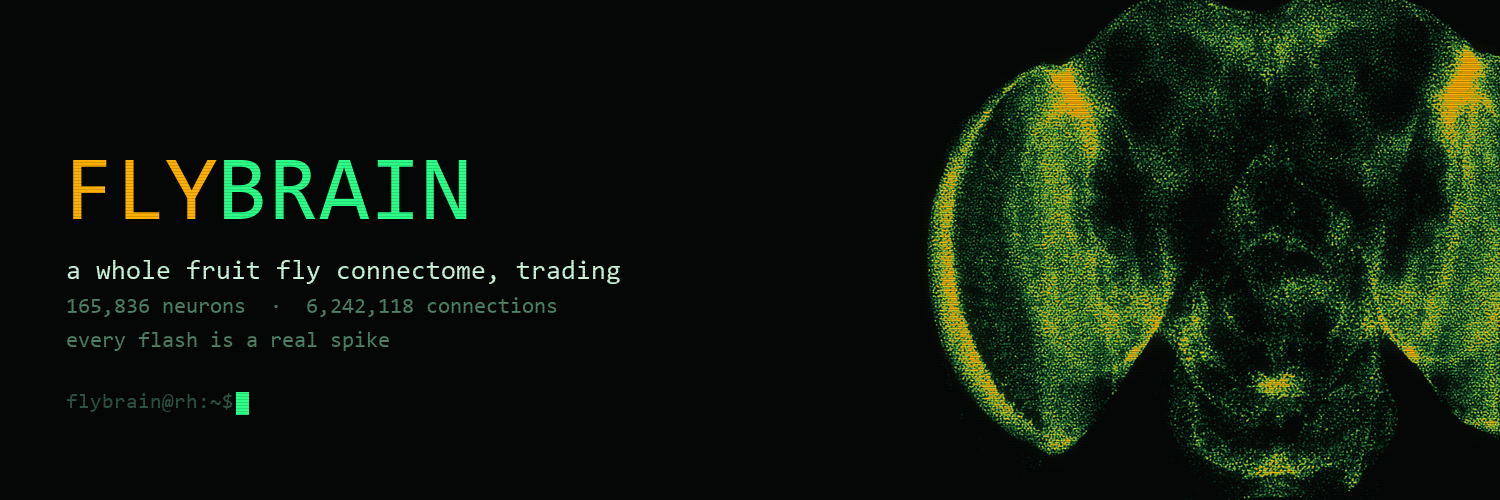
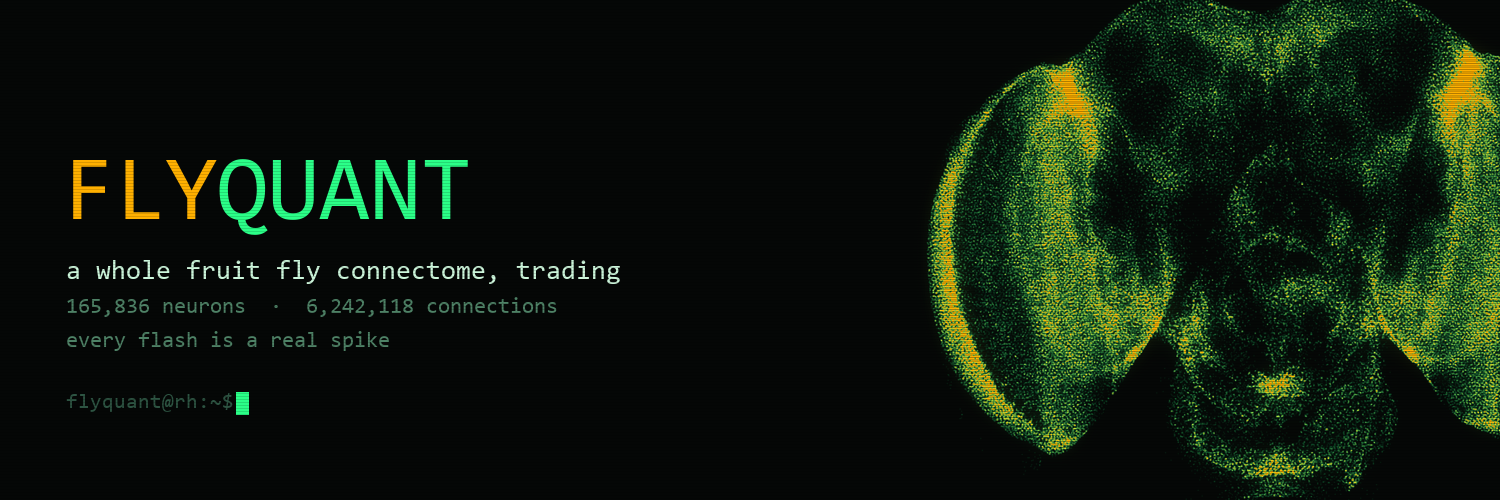
FLYQUANT, live trades only, and the markets ringed around the animal
Rebranded: the site, the boot line, the prompt and the banner all read FLYQUANT.
The ticker is still FLY -- launch.symbol is IMMUTABLE once launched, so change it
before the launch call if $FLYQUANT is wanted instead.

The backtest is gone from the page. Live fills only, one table, no modes. A
backtest sitting next to real fills invites reading one as the other however it is
labelled, and the P&L headline now reads the account's own unrealised or says it
has no account. backtest/ stays in the repo as a research tool; it just does not
speak to visitors.

And the markets orbit the brain. Every ticker sits at the azimuth the fly actually
seats it at, the ring turns with the fly's heading, the one it is facing burns amber
and anything falling goes red -- so the hero and the arena panel are showing the
same fact rather than two decorations.

Two bugs on the way. The animation loop starts immediately and touched `orbit` on
its first frame, before a `let` further down the file existed, which blanked the
whole page. And the overlay was inset:0 inside the stage, which spans the panels
underneath too, so fifty-seven tickers landed on top of the tape.

Deploy fixed as well: the function moved to /api at the repo root where Vercel
looks for it, and .vercelignore now exists -- without it Vercel falls back to
.gitignore and would have dropped site/stats.json and site/activity.bin, the two
files the page needs to render anything at all.

Changed region(s): [[0.2453, 0.3, 0.3373, 0.45], [0.1227, 0.3, 0.2147, 0.48], [0.092, 0.78, 0.1227, 0.81]]

diff --git a/site/index.html b/site/index.html
@@ -7,8 +7,8 @@
 <meta property="og:image" content="/banner.png">
 <meta name="twitter:card" content="summary_large_image">
 <meta name="twitter:image" content="/banner.png">
-<title>FLYBRAIN — a whole fly brain, trading</title>
-<meta name="description" content="165,836 neurons of a real fruit fly, in a flight arena with 57 live perp markets. Every dot is a cell body. Every flash is a spike.">
+<title>FLYQUANT — a whole fly brain, trading</title>
+<meta name="description" content="FLYQUANT · 165,836 neurons of a real fruit fly, in a flight arena with 57 live perp markets. Every dot is a cell body. Every flash is a spike.">
 <style>
   :root {
     --bg:#050706; --panel:#080b09; --line:#14261c; --ink:#c8f5d8; --dim:#4e8266; --faint:#2d5442;
@@ -60,6 +60,19 @@
   #cloud{display:block;width:100%;height:56vh;min-height:340px;cursor:crosshair;background:
     radial-gradient(ellipse at 50% 45%, #071310 0%, #050706 70%)}
   #cloud:active{cursor:grabbing}
+  /* the arena, made literal: every market sits at its own seat around the animal and the whole
+     ring turns with the fly's heading, so what the page shows IS what the fly is facing */
+  .orbit{position:absolute;left:0;right:0;top:0;height:56vh;min-height:340px;
+    pointer-events:none;overflow:hidden;z-index:3}
+  .orbit i{position:absolute;font-style:normal;font-size:10px;letter-spacing:.06em;
+    transform:translate(-50%,-50%);white-space:nowrap;color:var(--faint);
+    transition:color .5s ease,opacity .5s ease}
+  .orbit i.on{color:var(--grn);text-shadow:var(--glow)}
+  .orbit i.loom{color:var(--loom);text-shadow:0 0 7px rgba(255,77,77,.5)}
+  .orbit i.pick{color:var(--hot);font-weight:700;font-size:12px;
+    text-shadow:0 0 10px rgba(255,176,0,.65)}
+  .orbit b{position:absolute;left:50%;top:50%;width:1px;height:1px}
+
   .over{position:absolute;pointer-events:none;font-size:11.5px;color:var(--dim);letter-spacing:.04em}
   .over.tl{top:12px;left:16px} .over.bl{bottom:12px;left:16px} .over.br{bottom:12px;right:16px}
   .over b{color:var(--ink);font-weight:500}
@@ -74,7 +87,7 @@
 
   /* a terminal prompt, used wherever the page is speaking */
   .prompt{color:var(--grn);text-shadow:var(--glow)}
-  .prompt::before{content:'flybrain@rh:~$ ';color:var(--faint)}
+  .prompt::before{content:'flyquant@rh:~$ ';color:var(--faint)}
   .cursor{display:inline-block;width:7px;height:13px;background:var(--grn);vertical-align:-2px;
     box-shadow:var(--glow);animation:bl 1.05s steps(2) infinite}
   @keyframes bl{0%,50%{opacity:1}51%,100%{opacity:0}}
@@ -245,7 +258,7 @@
 <div id="boot"></div>
 
 <div class="top">
-  <div class="brand"><i>FLY</i>BRAIN</div>
+  <div class="brand"><i>FLY</i>QUANT</div>
   <div class="tag"><b>one whole fly brain</b>, trading 57 perp markets on Robinhood Chain ·
     it turns toward a market and its motor neurons decide</div>
   <div class="live" id="live"><span class="d"></span><span id="liveText">connecting</span></div>
@@ -254,6 +267,7 @@
 <div class="layout">
   <div class="stage">
     <canvas id="cloud"></canvas>
+    <div class="orbit" id="orbit"></div>
     <div class="over tl" id="ovTL"></div>
     <div class="over bl" id="ovBL"></div>
     <div class="over br">drag to rotate · scroll to zoom</div>
@@ -278,11 +292,6 @@
     <section class="tape-wrap">
       <div class="tape-head">
         <h3 style="margin:0">The tape</h3>
-        <div class="seg" id="tapeMode">
-          <button data-mode="all" class="on">all</button>
-          <button data-mode="live">live</button>
-          <button data-mode="backtest">backtest</button>
-        </div>
         <div class="tape-sum" id="tapeSum"></div>
       </div>
       <div class="tape-scroll"><table class="tp" id="feed"><tbody></tbody></table></div>
@@ -341,6 +350,9 @@
 const $ = (s) => document.querySelector(s);
 const fmt = (n) => n == null ? '—' : Math.round(n).toLocaleString();
 const pct = (x) => (x * 100).toFixed(x >= 0.1 ? 0 : 1) + '%';
+// declared up here with the rest of the state, not beside its functions: the animation loop starts
+// immediately and touches it on the first frame, which is before a `let` further down exists
+let orbit = { labels: [], chosen: null, heading: 0, bands: 72, front: 36 };
 const POPS = { LC4:'#38bdf8', LPLC2:'#ff4d4d', MN9:'#2bff88', MDN:'#ffb000', DNp09:'#4e8266', DNa02:'#c08bff' };
 
 /* ═══ the brain, in three dimensions ═══════════════════════════════════════════════
@@ -449,6 +461,7 @@ function frame() {
     // replay the pass on a loop, with a beat of darkness so each replay reads as a new pass
     view.tBin = (view.tBin + 0.11) % (bins + 9);
     GL.draw(view);
+    placeOrbit();
   }
   requestAnimationFrame(frame);
 }
@@ -533,6 +546,7 @@ function render(s) {
       <div class="hz">${r.hz.toFixed(0)} Hz</div></div>`;
   }).join('');
 
+  buildOrbit(s);
   renderBook(s);
   renderFeed(s);
   renderPnl(s);
@@ -644,64 +658,30 @@ function renderBook(s) {
    this page could do.                                                                   */
 function renderPnl(s) {
   const acct = s.account || {};
-  const liveKnown = !acct.error && Number.isFinite(acct.equity);
-  const useLive = tapeMode === 'live' || (tapeMode === 'all' && liveKnown);
-
-  let pnl, pct, label, sub, curve = null, stats = [];
-
-  // ASKED FOR LIVE AND THERE IS NO LIVE: say so. The first version fell through to the backtest
-  // here, which put a +4.60% backtest figure under a tab labelled "live" — precisely the blend this
-  // function exists to prevent, and it took a toggle test to catch.
-  if (tapeMode === 'live' && !liveKnown) {
+  if (acct.error || !Number.isFinite(acct.equity)) {
     $('#pnlNum').className = 'pnl-num flat';
     $('#pnlNum').textContent = '—';
-    $('#pnlLabel').textContent = 'live · no account';
-    $('#pnlSub').innerHTML = acct.error
-      ? String(acct.error)
-      : 'nothing has traded live yet';
+    $('#pnlLabel').textContent = 'no account';
+    $('#pnlSub').innerHTML = acct.error ? String(acct.error) : 'nothing has traded yet';
     $('#pnlStats').innerHTML = '';
     drawCurve(null);
     return;
   }
-
-  if (useLive && liveKnown) {
-    pnl = Number(acct.unrealized) || 0;
-    pct = acct.equity ? (pnl / acct.equity) * 100 : 0;
-    label = 'live · unrealised';
-    sub = `on <b>${usd(acct.equity)}</b> of equity · ${acct.positions.length} open`;
-    stats = [
-      ['equity', usd(acct.equity)],
-      ['exposure', usd(acct.exposure)],
-      ['positions', String(acct.positions.length)],
-    ];
-  } else if (backtest) {
-    pnl = backtest.pnl;
-    pct = backtest.pnlPct;
-    label = 'backtest · ' + backtest.hours + ' hours';
-    sub = `<b>${usd(backtest.startEquity)}</b> → <b>${usd(backtest.finalEquity)}</b> · not live, not an edge`;
-    curve = backtest.equityCurve;
-    stats = [
-      ['decisions', String(backtest.decisions)],
-      ['fill rate', (backtest.fillRate * 100).toFixed(0) + '%'],
-      ['spread paid', usd(backtest.spreadPaid)],
-      ['execution cost', (backtest.spreadPaid / backtest.startEquity * 100).toFixed(3) + '%'],
-    ];
-  } else {
-    $('#pnlNum').textContent = '—';
-    $('#pnlLabel').textContent = 'no account yet';
-    $('#pnlSub').innerHTML = 'set <b>lighter.accountIndex</b> in keeper/config.json';
-    return;
-  }
-
+  const pnl = Number(acct.unrealized) || 0;
+  const pct = acct.equity ? (pnl / acct.equity) * 100 : 0;
   const dir = pnl > 0 ? 'up' : pnl < 0 ? 'dn' : 'flat';
   $('#pnlNum').className = 'pnl-num ' + dir;
   $('#pnlNum').textContent = (pnl >= 0 ? '+' : '') + usd(pnl);
-  $('#pnlLabel').textContent = label;
-  $('#pnlSub').innerHTML = `<b class="${dir}" style="color:${pnl >= 0 ? 'var(--grn)' : 'var(--short)'}">` +
-    `${pnl >= 0 ? '+' : ''}${pct.toFixed(2)}%</b> &nbsp; ${sub}`;
-
-  $('#pnlStats').innerHTML = stats.map(([k, v]) => `<div><span>${k}</span><b>${v}</b></div>`).join('');
-  drawCurve(curve);
+  $('#pnlLabel').textContent = 'unrealised';
+  $('#pnlSub').innerHTML = `<b style="color:${pnl >= 0 ? 'var(--grn)' : 'var(--short)'}">` +
+    `${pnl >= 0 ? '+' : ''}${pct.toFixed(2)}%</b> &nbsp; on <b>${usd(acct.equity)}</b> of equity · ` +
+    `${acct.positions.length} open`;
+  $('#pnlStats').innerHTML = [
+    ['equity', usd(acct.equity)],
+    ['exposure', usd(acct.exposure)],
+    ['positions', String(acct.positions.length)],
+  ].map(([k, v]) => `<div><span>${k}</span><b>${v}</b></div>`).join('');
+  drawCurve(s.equityCurve || null);
 }
 
 function drawCurve(curve) {
@@ -756,15 +736,12 @@ function drawCurve(curve) {
    Live decisions and backtested ones in one place, each labelled for what it is. Every
    pass writes a line INCLUDING the ones that placed nothing — a feed that shows only the
    orders that went through is a highlight reel.                                          */
-let backtest = null;
-let tapeMode = 'all';
 let activityUrl = 'activity.bin';
 
 function tapeRows(s) {
-  const live = (s.feed || []).map((f) => ({ ...f, kind: 'live' }));
-  const bt = backtest ? backtest.feed.map((f) => ({ ...f, kind: 'backtest' })) : [];
-  let rows = tapeMode === 'live' ? live : tapeMode === 'backtest' ? bt : live.concat(bt);
-  return rows.sort((a, z) => z.at - a.at).slice(0, 120);
+  // LIVE ONLY. A backtest next to real fills in the same table invites reading one as the other,
+  // however it is labelled.
+  return (s.feed || []).slice().sort((a, z) => z.at - a.at).slice(0, 120);
 }
 
 function renderFeed(s) {
@@ -776,9 +753,7 @@ function renderFeed(s) {
   } else {
     tb.innerHTML = rows.map((f) => {
       const d = new Date(f.at);
-      const when = f.kind === 'backtest'
-        ? d.toISOString().slice(5, 16).replace('T', ' ')
-        : d.toTimeString().slice(0, 8);
+      const when = d.toTimeString().slice(0, 8);
       const status = f.status || 'none';
       const exec = f.execution === 'post-only' ? '<span class="tag post">resting</span>'
                  : f.execution === 'market' ? '<span class="tag cross">crossing</span>' : '';
@@ -786,7 +761,7 @@ function renderFeed(s) {
       const pnl = f.realised != null
         ? `<span class="pnl ${f.realised >= 0 ? 'up' : 'dn'}">${f.realised >= 0 ? '+' : ''}${usd(f.realised)}</span>` : '';
       return `<tr>
-        <td class="t">${when}${f.kind === 'backtest' ? ' <span class="tag bt">bt</span>' : ''}</td>
+        <td class="t">${when}</td>
         <td class="${f.side || ''}">${(f.side || f.action || '—').toUpperCase()}</td>
         <td class="sym">${f.symbol || '—'}</td>
         <td class="num">${f.sizeBase != null ? Number(f.sizeBase).toLocaleString(undefined, { maximumFractionDigits: 4 }) : ''}</td>
@@ -801,25 +776,13 @@ function renderFeed(s) {
     }).join('');
   }
 
-  // the summary strip
   const bits = [];
-  if (backtest) {
-    const up = backtest.pnl >= 0;
-    bits.push(`<span>backtest <b>${backtest.hours}h</b></span>`);
-    bits.push(`<span><b class="${up ? 'up' : 'dn'}">${up ? '+' : ''}${backtest.pnlPct.toFixed(2)}%</b> on ${usd(backtest.startEquity)}</span>`);
-    bits.push(`<span>fill rate <b>${(backtest.fillRate * 100).toFixed(0)}%</b></span>`);
-    bits.push(`<span>spread paid <b>${usd(backtest.spreadPaid)}</b></span>`);
-  }
+  if (s.account && !s.account.error) bits.push(`<span>equity <b>${usd(s.account.equity)}</b></span>`);
   if (s.trade) bits.push(`<span>live <b>${s.trade.live ? 'ARMED' : 'disarmed'}</b></span>`);
   $('#tapeSum').innerHTML = bits.join('');
 
-  $('#tapeNote').innerHTML = backtest
-    ? `<b>bt</b> rows are a BACKTEST: the real fly, on ${backtest.source}. Fills are modelled at hourly
-       resolution and ignore queue position, which flatters them — the ${(backtest.fillRate * 100).toFixed(0)}%
-       fill rate would not survive a three-minute live cadence. Under two days of sample.
-       <b>It shows the machine works, not that the strategy does.</b> Live rows link to the transaction
-       that proves them.`
-    : `Every pass writes a line, including the ones that placed nothing.`;
+  $('#tapeNote').innerHTML = 'Every pass writes a line, including the ones that placed nothing. ' +
+    'Each fill links to the transaction that proves it.';
 }
 
 /* ═══ the arena ═══════════════════════════════════════════════════════════════════ */
@@ -902,22 +865,47 @@ function drawRaster(p) {
     `<span>${p.raster.dots.length.toLocaleString()} spikes drawn</span>`;
 }
 
+/* ═══ the ring of markets ═════════════════════════════════════════════════════════
+   57 tickers on an ellipse around the brain, each at the azimuth the fly actually seats
+   it at, the whole ring rotating with the fly's heading. The one it is facing burns amber;
+   anything falling goes red. It is the arena panel and the hero showing the same thing.   */
+function buildOrbit(s) {
+  const host = $('#orbit');
+  if (!host) return;
+  const rows = s.pass.markets || [];
+  host.innerHTML = rows.map((m) => `<i data-seat="${m.seat}">${m.symbol}</i>`).join('');
+  orbit.labels = [...host.querySelectorAll('i')].map((el, k) => ({ el, m: rows[k] }));
+  orbit.bands = s.arena.bands; orbit.front = s.arena.front;
+  orbit.chosen = s.pass.chosen; orbit.heading = s.pass.heading;
+  for (const { el, m } of orbit.labels) {
+    el.className = m.symbol === orbit.chosen ? 'pick' : (m.fall > 0.02 ? 'loom' : (m.bright > 0.55 ? 'on' : ''));
+    el.style.opacity = (0.3 + m.bright * 0.7).toFixed(2);
+  }
+}
+
+function placeOrbit() {
+  const host = $('#orbit');
+  if (!host || !orbit.labels.length) return;
+  const w = host.clientWidth, h = host.clientHeight;
+  if (w < 10) return;
+  const cx = w / 2, cy = h / 2;
+  const rx = Math.min(w * 0.46, 560), ry = Math.min(h * 0.42, 300);
+  for (const { el, m } of orbit.labels) {
+    // its seat, less where the fly has turned, less the extra spin the view is doing
+    const band = m.seat - orbit.heading;
+    const a = ((band - orbit.front) / orbit.bands) * Math.PI * 2 - Math.PI / 2 + view.yaw;
+    const x = cx + Math.cos(a) * rx;
+    const y = cy + Math.sin(a) * ry * 0.72;
+    // fade the ones that have swung round the back, so the ring reads as a ring
+    const depth = (Math.sin(a) + 1) / 2;
+    el.style.left = x.toFixed(1) + 'px';
+    el.style.top = y.toFixed(1) + 'px';
+    el.style.opacity = (0.16 + (0.3 + m.bright * 0.7) * (0.45 + depth * 0.55)).toFixed(2);
+  }
+}
+
 let rt;
 addEventListener('resize', () => { clearTimeout(rt); rt = setTimeout(() => { if (latest) { drawArena(latest); drawRaster(latest.pass); } }, 120); });
-
-fetch('backtest.json').then((r) => (r.ok ? r.json() : null)).then((b) => {
-  backtest = b;
-  if (latest) { renderFeed(latest); renderPnl(latest); }
-}).catch(() => {});
-
-document.querySelectorAll('#tapeMode button').forEach((b) => {
-  b.addEventListener('click', () => {
-    document.querySelectorAll('#tapeMode button').forEach((x) => x.classList.remove('on'));
-    b.classList.add('on');
-    tapeMode = b.dataset.mode;
-    if (latest) { renderFeed(latest); renderPnl(latest); }
-  });
-});
 
 /* ═══ boot ════════════════════════════════════════════════════════════════════════
    Every line is a real figure from the graph that is actually loaded. A boot screen that
@@ -928,7 +916,7 @@ document.querySelectorAll('#tapeMode button').forEach((b) => {
   if (!el) return;
   const pad = (a, b) => a + ' ' + '.'.repeat(Math.max(2, 34 - a.length)) + ' ' + b;
   const lines = [
-    'FLYBRAIN  ·  MaleCNS v1.0 connectome runtime',
+    'FLYQUANT  ·  MaleCNS v1.0 connectome runtime',
     'Janelia FlyEM / Cambridge / Google  ·  CC BY 4.0',
     '',
     ['ok', pad('mapping connectome', '165,836 neurons')],

diff --git a/brand/render.py b/brand/render.py
@@ -152,11 +152,11 @@ def make_banner(xyz, w=1500, h=500):
     big = font(92)
     # MEASURED, not guessed: hardcoding the second word's x put the Y of FLY through the B of BRAIN
     dr.text((64, 150), 'FLY', font=big, fill=(255, 176, 0, 255))
-    dr.text((64 + dr.textlength('FLY', font=big), 150), 'BRAIN', font=big, fill=(43, 255, 136, 255))
+    dr.text((64 + dr.textlength('FLY', font=big), 150), 'QUANT', font=big, fill=(43, 255, 136, 255))
     dr.text((66, 258), 'a whole fruit fly connectome, trading', font=font(27), fill=(200, 245, 216, 235))
     dr.text((66, 296), '165,836 neurons  ·  6,242,118 connections', font=font(22), fill=(78, 130, 102, 255))
     dr.text((66, 330), 'every flash is a real spike', font=font(22), fill=(78, 130, 102, 255))
-    dr.text((66, 392), 'flybrain@rh:~$ ', font=font(21), fill=(45, 84, 66, 255))
+    dr.text((66, 392), 'flyquant@rh:~$ ', font=font(21), fill=(45, 84, 66, 255))
     dr.rectangle([236, 392, 248, 414], fill=(43, 255, 136, 255))
 
     out = scanlines(bg, step=3, dark=0.86)
